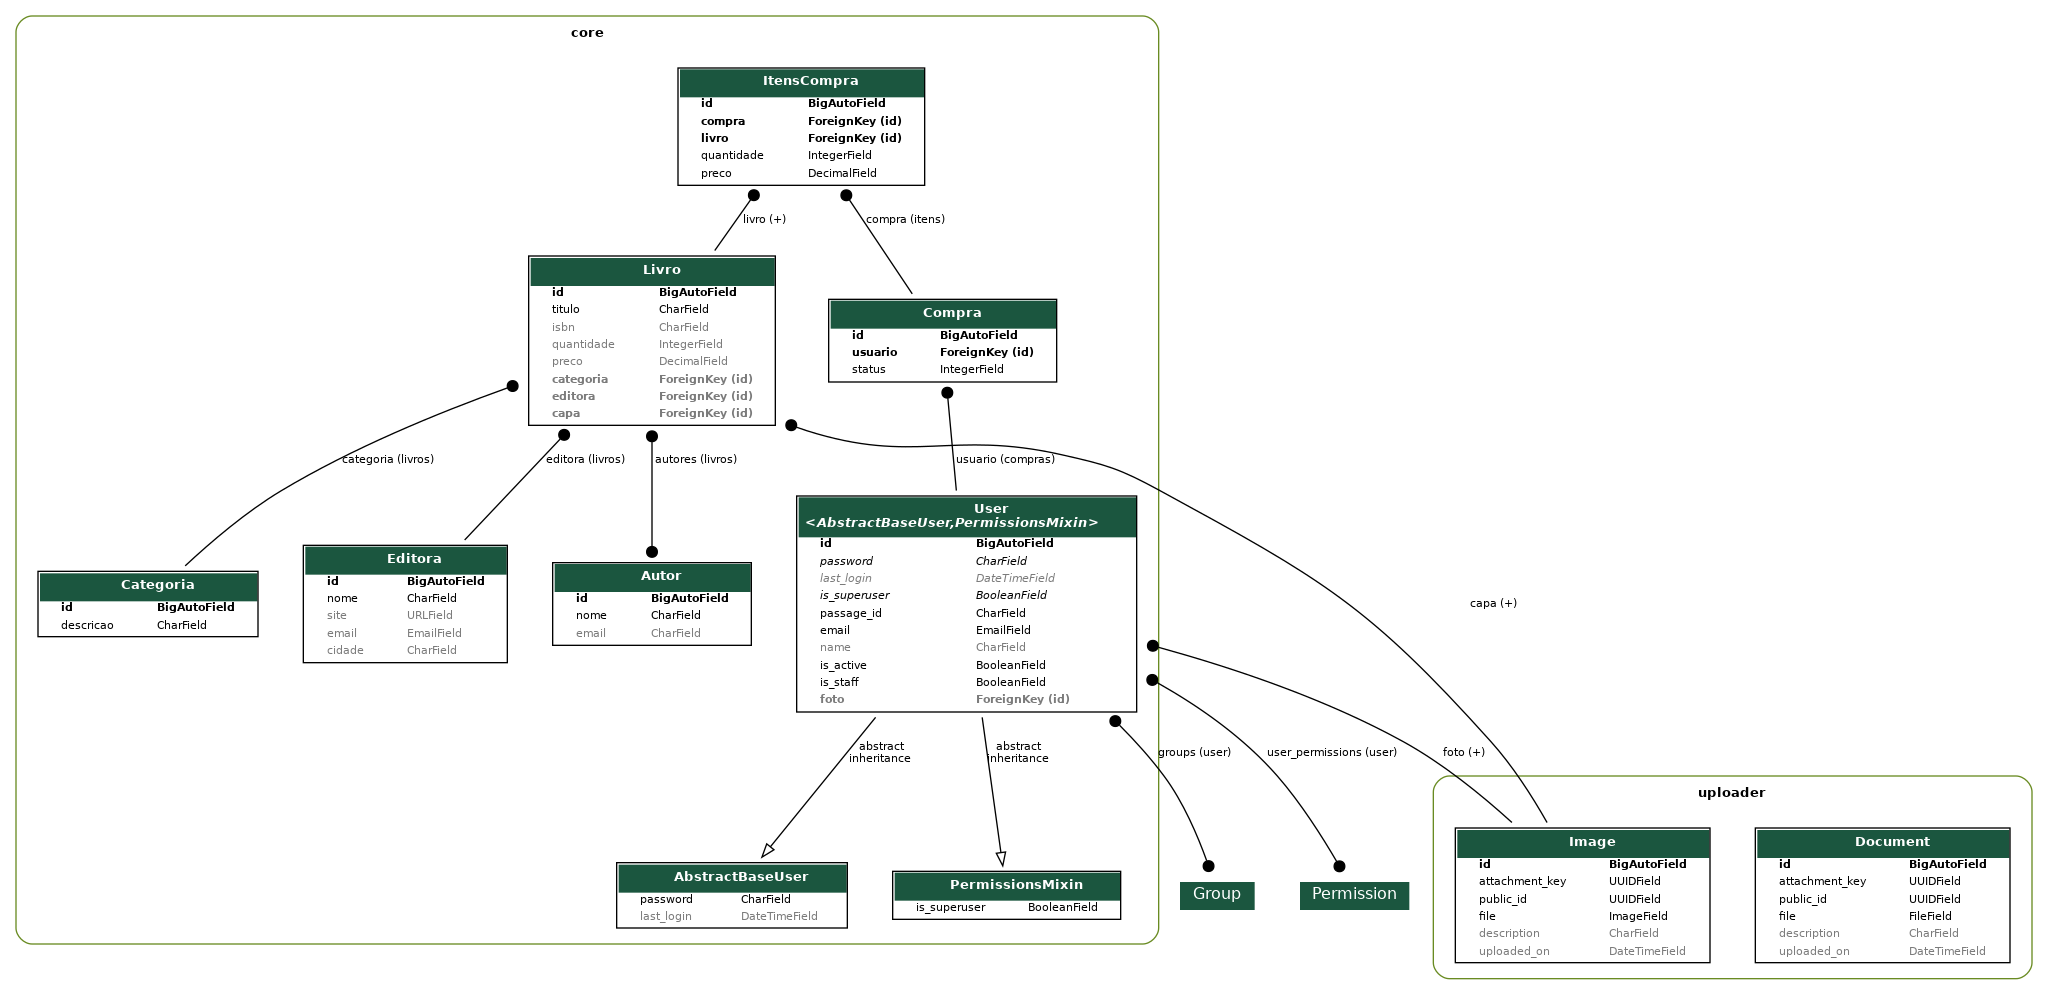
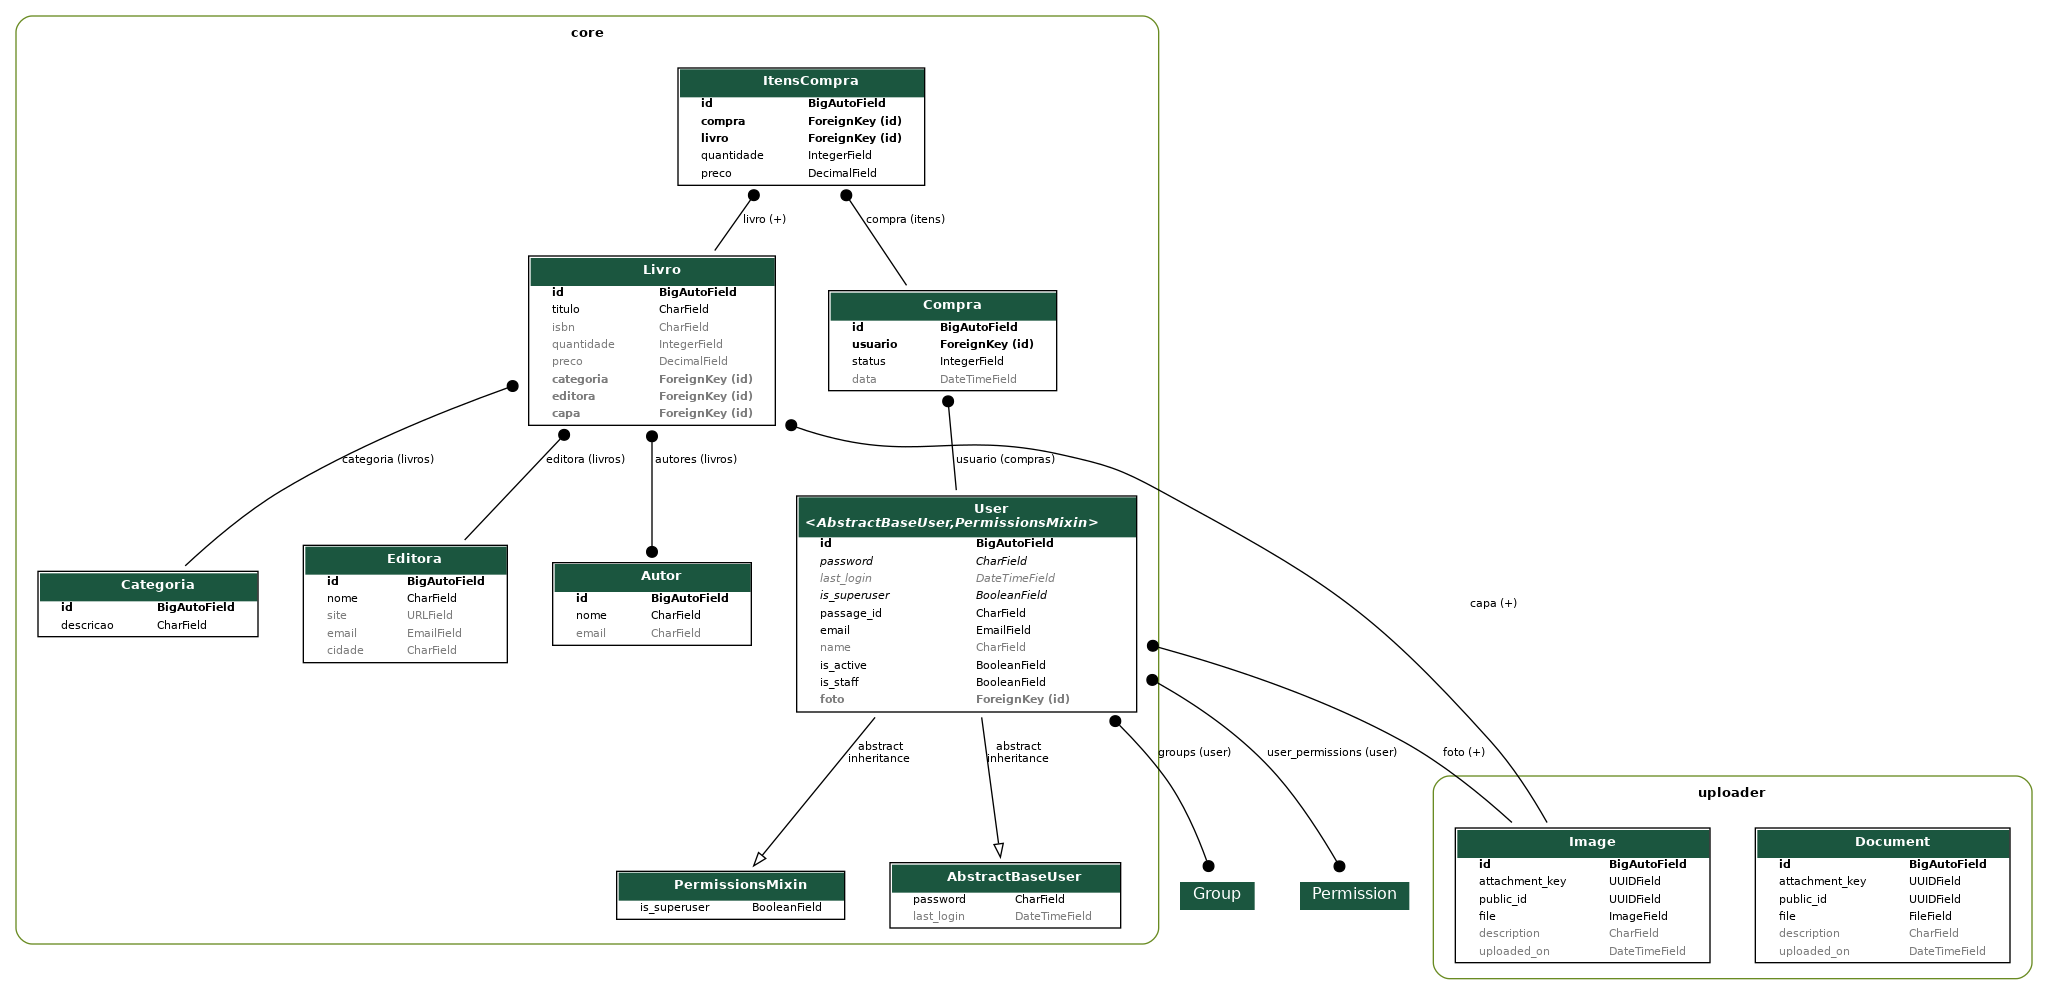
34 - Adicionando tipo de pagamento à entidade de Compra

Changed region(s): [[0.2812, 0.8412, 0.5625, 0.9347], [0.4062, 0.2804, 0.5312, 0.405], [0.4062, 0.7477, 0.4375, 0.7789]]

diff --git a/core/serializers/compra.py b/core/serializers/compra.py
@@ -1,4 +1,4 @@
-from rest_framework.serializers import CharField, ModelSerializer, SerializerMethodField, CurrentUserDefault, HiddenField, ValidationError
+from rest_framework.serializers import CharField, ModelSerializer, SerializerMethodField, CurrentUserDefault, HiddenField, ValidationError, DateTimeField
 
 
 from core.models import Compra, ItensCompra
@@ -27,10 +27,12 @@ class ItensCompraCreateUpdateSerializer(ModelSerializer):
 class CompraSerializer(ModelSerializer):
     status = CharField(source="get_status_display", read_only=True)
     usuario = CharField(source="usuario.email", read_only=True)
+    data = DateTimeField(read_only=True)
     itens = ItensCompraSerializer(many=True, read_only=True)
+    tipo_pagamento = CharField(source="get_tipo_pagamento_display", read_only=True)
     class Meta:
         model = Compra
-        fields = ("id", "usuario", "status", "total", "itens")
+        fields = ("id", "usuario", "status", "total", "data", "tipo_pagamento", "itens")
 
 
 class CompraCreateUpdateSerializer(ModelSerializer):

diff --git a/core/models/compra.py b/core/models/compra.py
@@ -10,8 +10,19 @@ class Compra(models.Model):
         PAGO = 3, "Pago"
         ENTREGUE = 4, "Entregue"
 
+    class TipoPagamento(models.IntegerChoices):
+        CARTAO_CREDITO = 1, "Cartão de Crédito"
+        CARTAO_DEBITO = 2, "Cartão de Débito"
+        PIX = 3, "PIX"
+        BOLETO = 4, "Boleto"
+        TRANSFERENCIA_BANCARIA = 5, "Transferência Bancária"
+        DINHEIRO = 6, "Dinheiro"
+        OUTRO = 7, "Outro"
+
     usuario = models.ForeignKey(User, on_delete=models.PROTECT, related_name="compras")
     status = models.IntegerField(choices=StatusCompra.choices,  default=StatusCompra.CARRINHO)
+    data = models.DateTimeField(auto_now_add=True)
+    tipo_pagamento = models.IntegerField(choices=TipoPagamento.choices, default=TipoPagamento.CARTAO_CREDITO)
     @property
     def total(self):
         # total = 0

diff --git a/core/migrations/0016_compra_data.py b/core/migrations/0016_compra_data.py
@@ -1,0 +1,20 @@
+# Generated by Django 5.1.3 on 2024-12-16 11:59
+
+import django.utils.timezone
+from django.db import migrations, models
+
+
+class Migration(migrations.Migration):
+
+    dependencies = [
+        ("core", "0015_itenscompra_preco"),
+    ]
+
+    operations = [
+        migrations.AddField(
+            model_name="compra",
+            name="data",
+            field=models.DateTimeField(auto_now_add=True, default=django.utils.timezone.now),
+            preserve_default=False,
+        ),
+    ]
